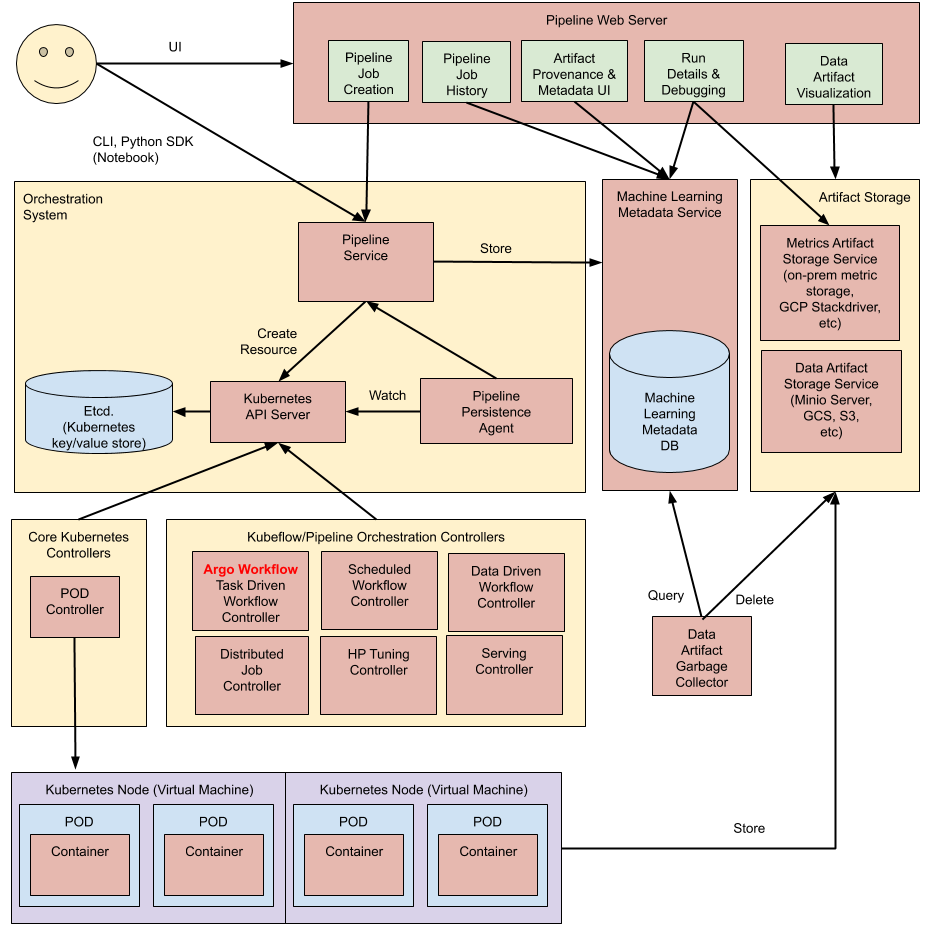
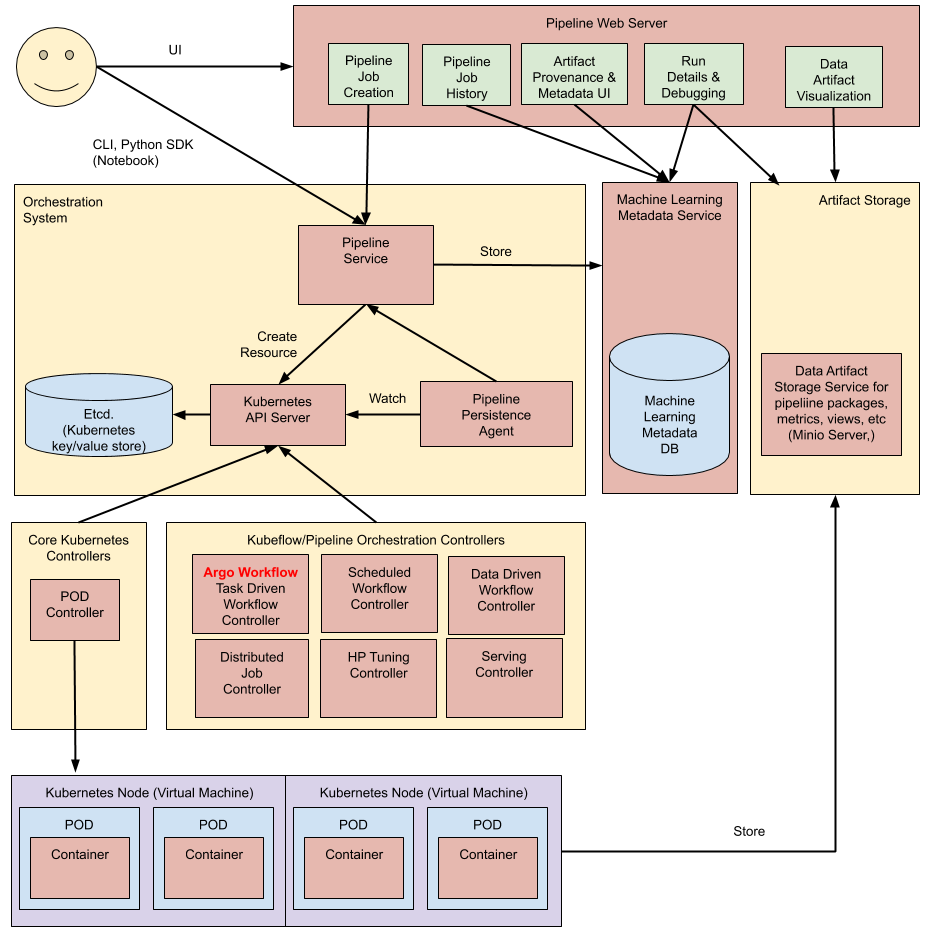
Removed GC and adjusted artifact storage.

diff --git a/content/docs/pipelines/pipelines-overview.md b/content/docs/pipelines/pipelines-overview.md
@@ -183,20 +183,23 @@ At a high level, the execution of a pipeline proceeds as follows:
   example controller is the **[Argo
   Workflow**](https://github.com/argoproj/argo) controller, which
   orchestrates task-driven workflows. 
-* **Artifact storage**: The Pods store two kinds of data: they call a Data
-  Artifact Storage Service (Minio Server, Google Cloud Storage, etc. to store
-  data artifacts. They call a Metrics Artifact Storage Service (GCP Stackdriver,
-  on-prem equivalent, etc) to store metrics artifacts.
+* **Artifact storage**: The Pods store two kinds of data: 
+
+  * **Metadata:** Experiments, jobs, runs, etc. Kubeflow Pipelines 
+  stores the pipeline metadata in a MySQL database.
+  * **Artifacts:** Pipeline packages, metrics, views, etc. Kubeflow Pipelines 
+  stores the artifacts in a [Minio server](https://docs.minio.io/).
+
+    The MySQL database and the Minio server are both backed by the Kubernetes
+    [PersistentVolume](https://kubernetes.io/docs/concepts/storage/persistent-volumes/#types-of-persistent-volumes)
+    (PV) subsystem. 
+
 * **Persistence agent and ML metadata**: The Pipeline Persistence Agent
   watches the Kubernetes resources created by the Pipeline Service and
   persists the state of these resources in the ML Metadata Service. The
   Pipeline Persistence Agent records the set of containers that executed as
   well as their inputs and outputs. The input/output consists of either
   container parameters or data artifact URIs. 
-* **Garbage collection**: The Data Artifact Garbage Collector queries the
-  Machine Learning Metadata Service to delete artifacts from artifact storage
-  if the system has been configured to delete artifacts that meet a certain
-  condition (for example, a time-to-live (TTL) has expired). 
 * **Pipeline web server**: The Pipeline web server gathers data from various
   services to display relevant views: the list of pipelines currently running,
   the history of pipeline execution, the list of data artifacts, debugging
